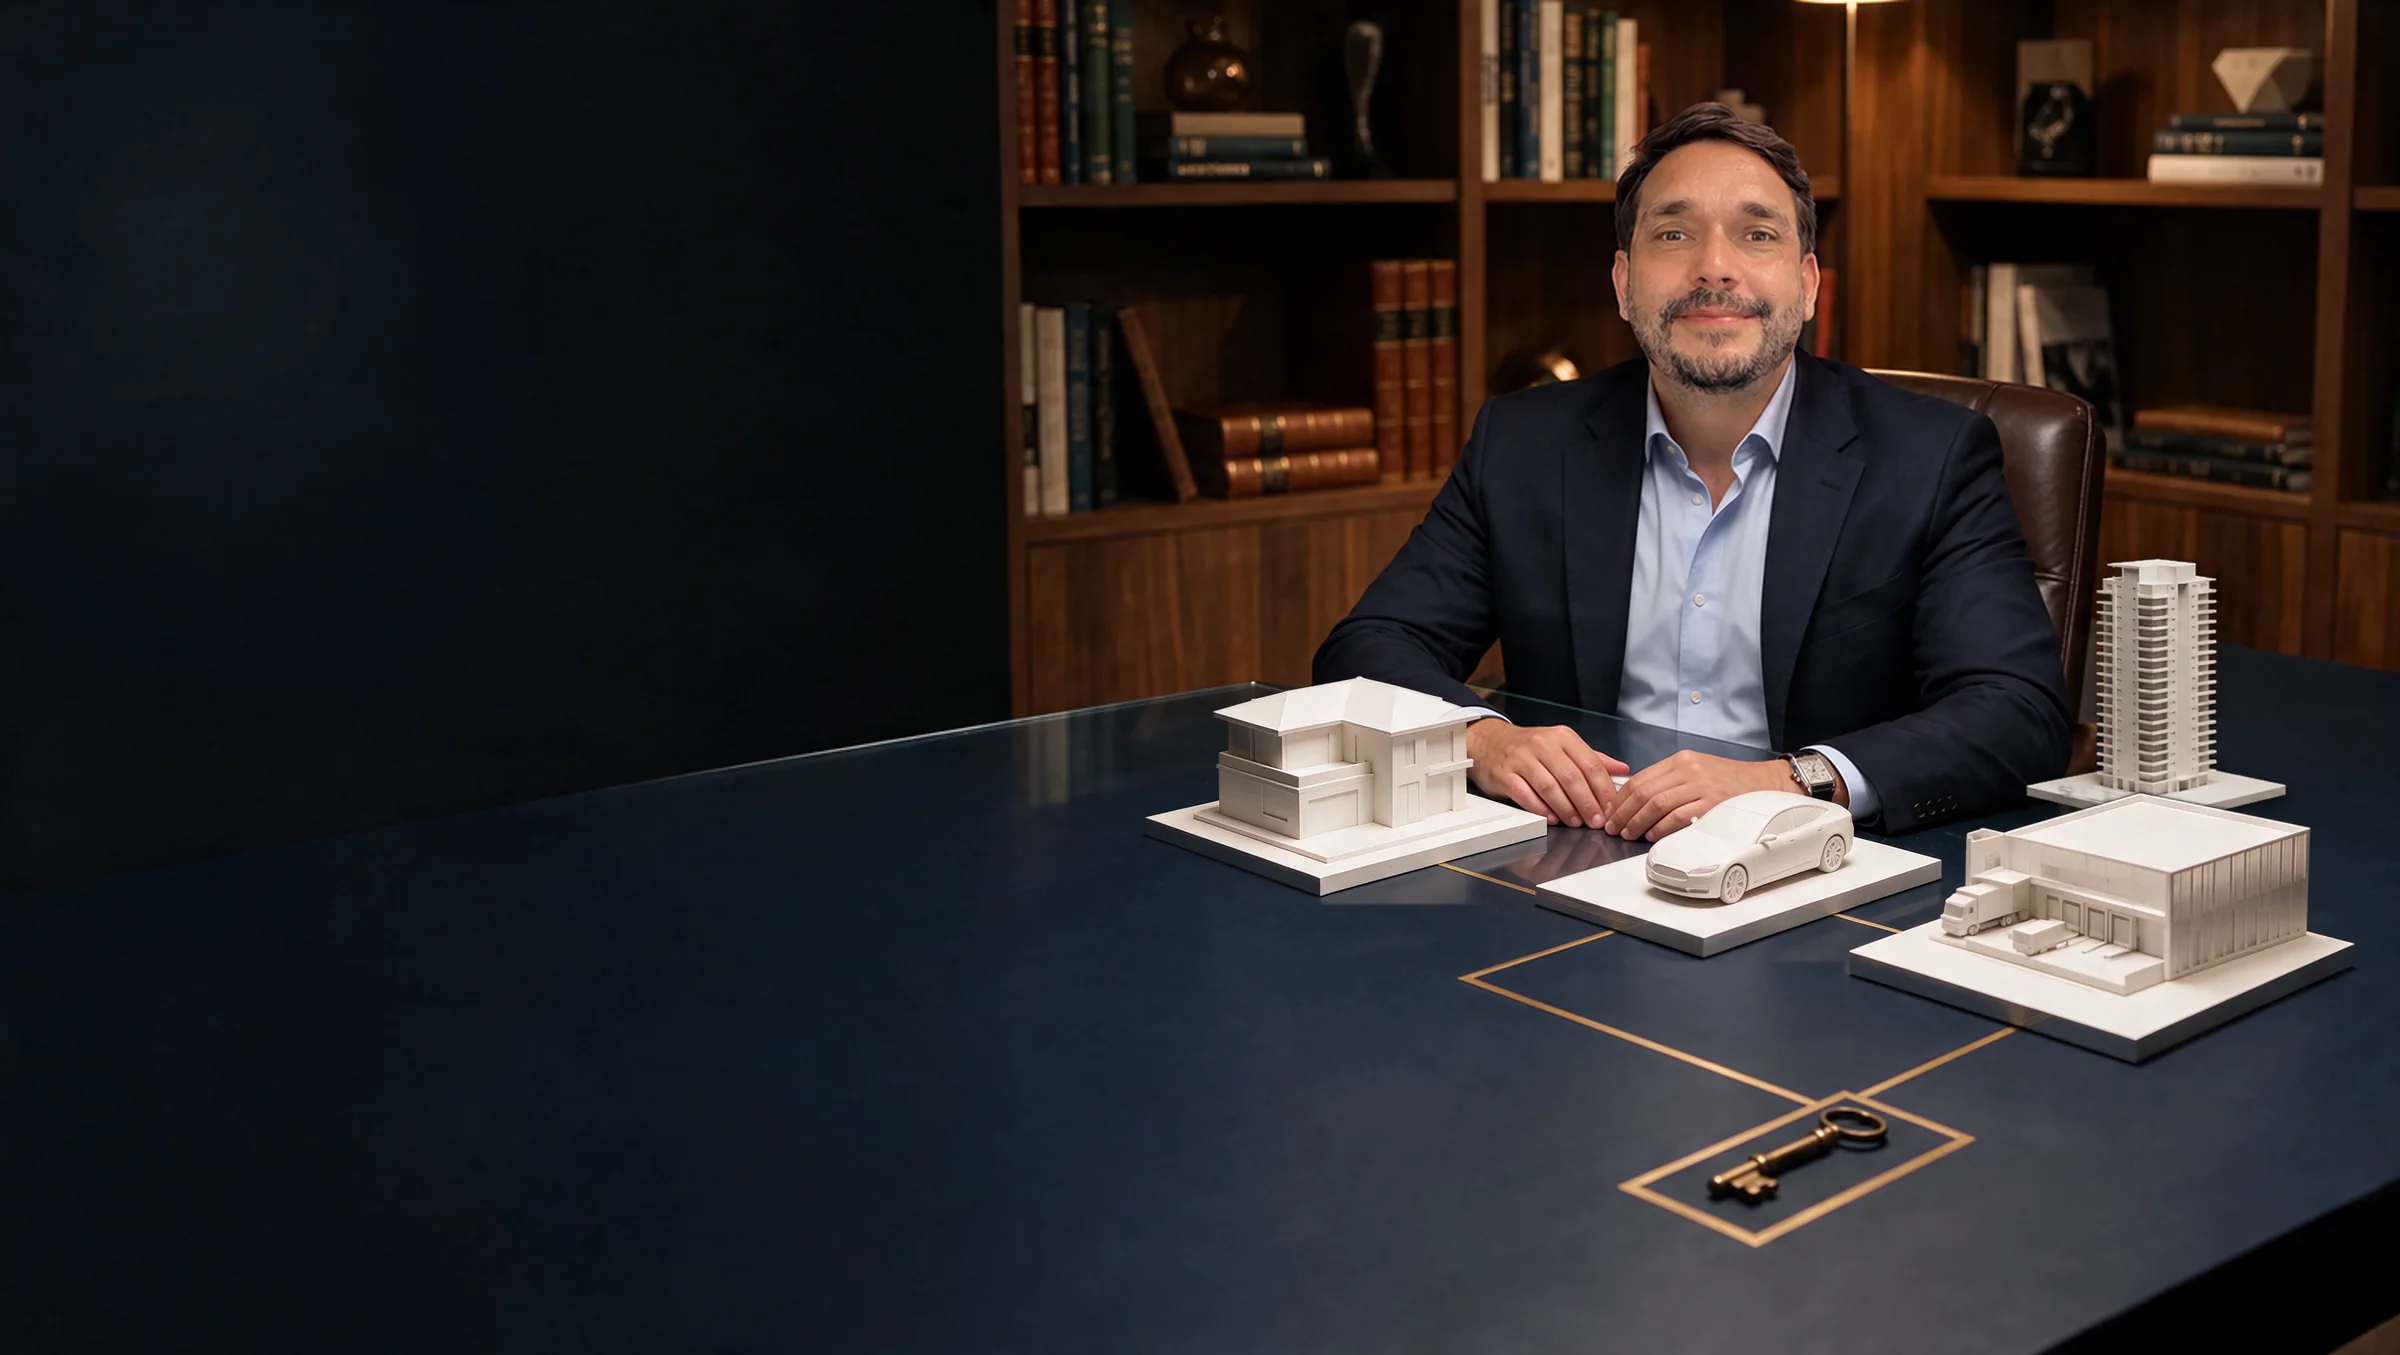
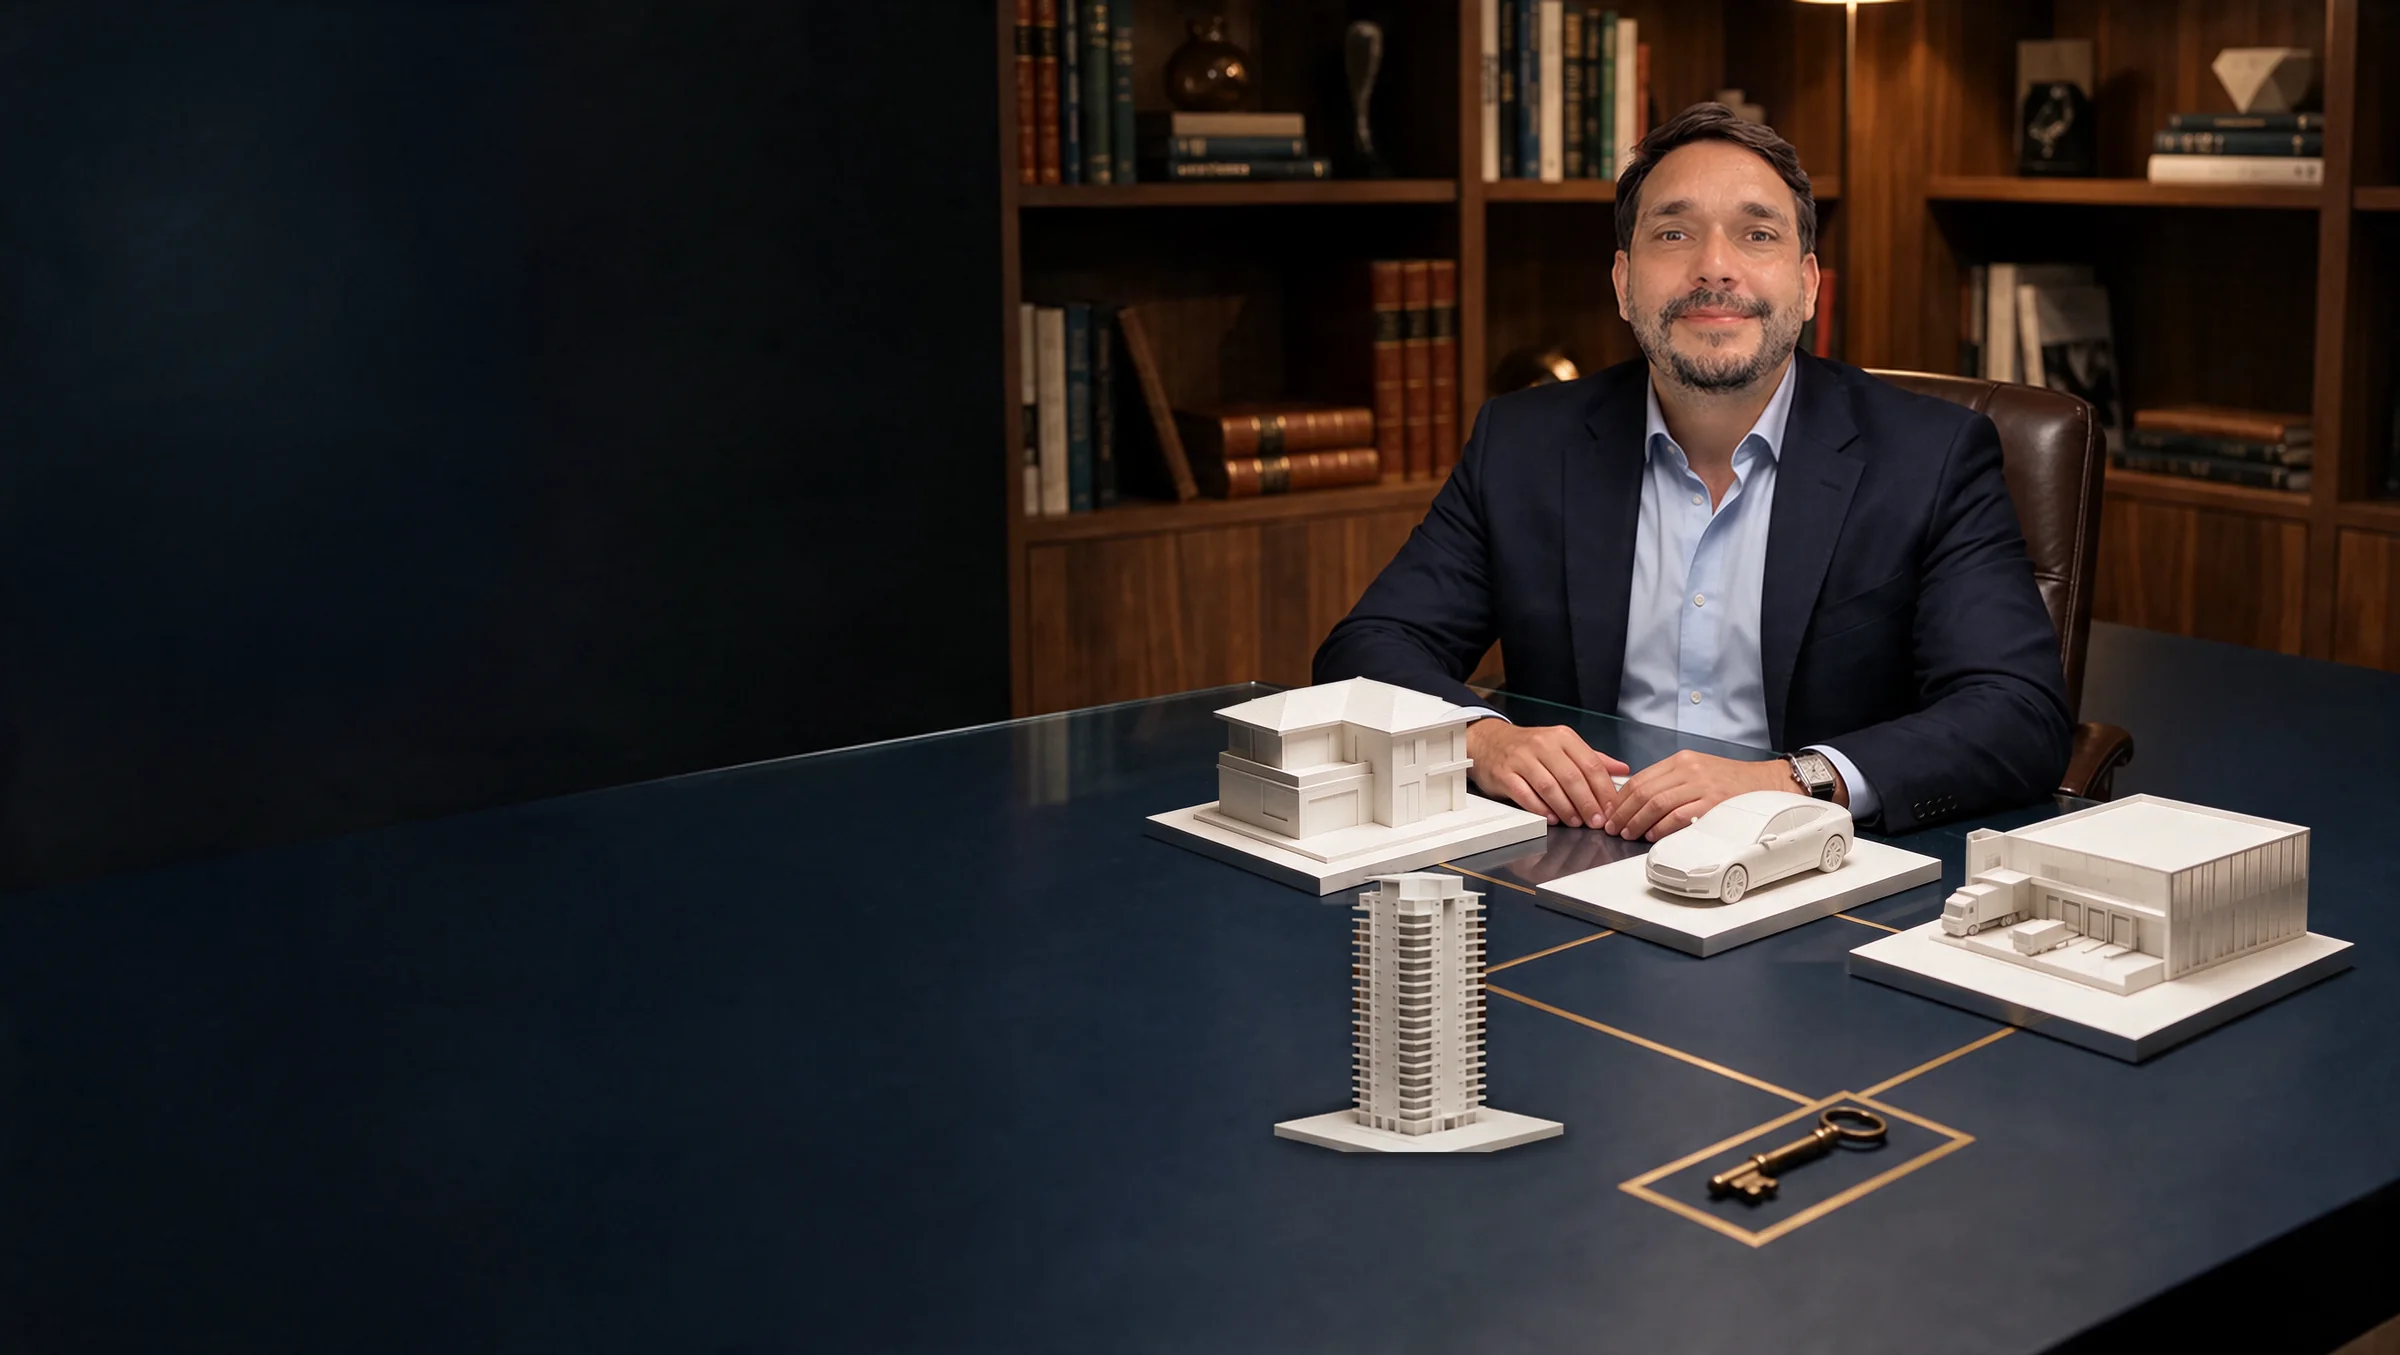
Topo: barba menos grisalha e prédio na frente da mesa, com os 5 elementos distribuídos
Claude-Session: https://claude.ai/code/session_01PWsREDKrVSqGNK6L7kcVFr

Changed region(s): [[0.5312, 0.6199, 0.6562, 0.8679], [0.8438, 0.403, 0.9688, 0.6199]]

diff --git a/app/components/Hero.jsx b/app/components/Hero.jsx
@@ -17,17 +17,17 @@ const CAMINHOS = [
 ];
 const PONTOS = [
   { x: 1340, y: 720, rotulo: 'Imóvel', sub: 'Casa ou apartamento', caminhos: ['chave', 'base', 'casa'], halo: { y: 800, rx: 240, ry: 110 }, lado: 'esq' },
-  { x: 2158, y: 610, rotulo: 'Investimento imobiliário', sub: 'Comercial ou para locação', caminhos: ['chave', 'galpao'], halo: { y: 700, rx: 140, ry: 175 }, lado: 'esq' },
+  { x: 1421, y: 920, rotulo: 'Investimento imobiliário', sub: 'Comercial ou para locação', caminhos: ['chave', 'base'], halo: { y: 1050, rx: 150, ry: 170 }, lado: 'dir' },
   { x: 1740, y: 840, rotulo: 'Veículo', sub: 'Carro, moto ou frota', caminhos: ['chave', 'base'], halo: { y: 870, rx: 210, ry: 80 }, lado: 'dir' },
   { x: 2100, y: 880, rotulo: 'Para a empresa', sub: 'Cresça sem tirar dinheiro do caixa', caminhos: ['chave', 'galpao'], halo: { y: 930, rx: 280, ry: 130 }, lado: 'esq' },
 ];
 const BRILHOS = [{ x: 1850, y: 1125 }];
-// ordem do pouso: casa, carro, prédio e galpão
+// ordem do pouso: casa, carro, galpão e prédio (o prédio fica na frente)
 const POUSO = [
   { obj: '/pouso2/casa.webp', sombra: '/pouso2/casa-sombra.webp', x: 1138, y: 662, w: 415, h: 243, ponto: 0 },
   { obj: '/pouso2/carro.webp', sombra: '/pouso2/carro-sombra.webp', x: 1531, y: 776, w: 419, h: 185, ponto: 2 },
-  { obj: '/pouso2/predio.webp', sombra: '/pouso2/predio-sombra.webp', x: 1993, y: 550, w: 329, h: 310, ponto: 1 },
   { obj: '/pouso2/galpao.webp', sombra: '/pouso2/galpao-sombra.webp', x: 1844, y: 785, w: 516, h: 287, ponto: 3 },
+  { obj: '/pouso2/predio.webp', sombra: '/pouso2/predio-sombra.webp', x: 1240, y: 861, w: 362, h: 342, ponto: 1 },
 ];
 
 // Decide antes de a página aparecer se o pouso roda (primeira visita, sem movimento reduzido).
@@ -38,7 +38,7 @@ export default function Hero() {
     <section className="mesa" aria-labelledby="hero-titulo">
       <script dangerouslySetInnerHTML={{ __html: DECIDE_POUSO }} />
       <div className="mesa-fundo" aria-hidden="true">
-        <CenaViva src="/mesa-joao-vazia.webp" final={FINAL} pouso={POUSO} alt="" w={W} h={H} origem={[0.66, 0.22]} alvo=".mesa" caminhos={CAMINHOS} pontos={PONTOS} brilhos={BRILHOS} prioridade />
+        <CenaViva src="/mesa-joao-vazia.webp" final={FINAL} pouso={POUSO} alt="" w={W} h={H} origem={[0.66, 0.36]} alvo=".mesa" caminhos={CAMINHOS} pontos={PONTOS} brilhos={BRILHOS} prioridade />
       </div>
       <div className="wrap mesa-grade">
         <div className="mesa-texto">

diff --git a/app/globals.css b/app/globals.css
@@ -1233,3 +1233,5 @@ summary::after { color: var(--green); }
   .mesa .cena { --ox: .85 !important; --oy: .3 !important; }
   .mesa .cena-veu { background: linear-gradient(180deg, #0B1524 0%, rgba(11,21,36,0) 18%, rgba(11,21,36,0) 82%, rgba(11,21,36,.55) 100%); }
 }
+/* telas largas: o topo ganha altura para caber o rosto e o prédio da frente */
+@media (min-width: 1500px) { .mesa { min-height: min(calc(100dvh - 72px), 54vw); } }
